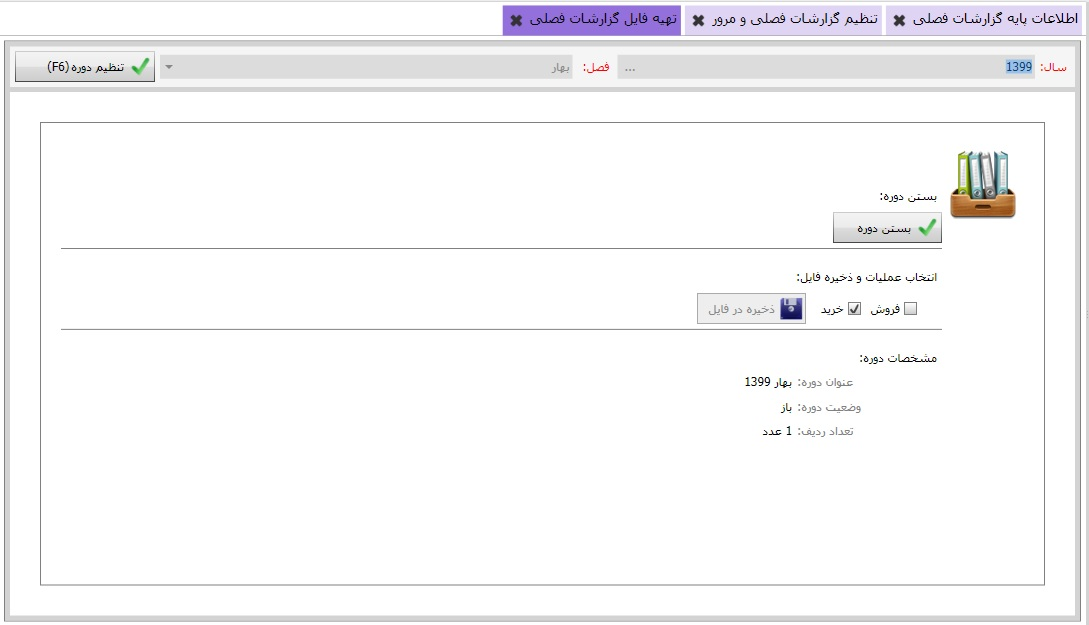
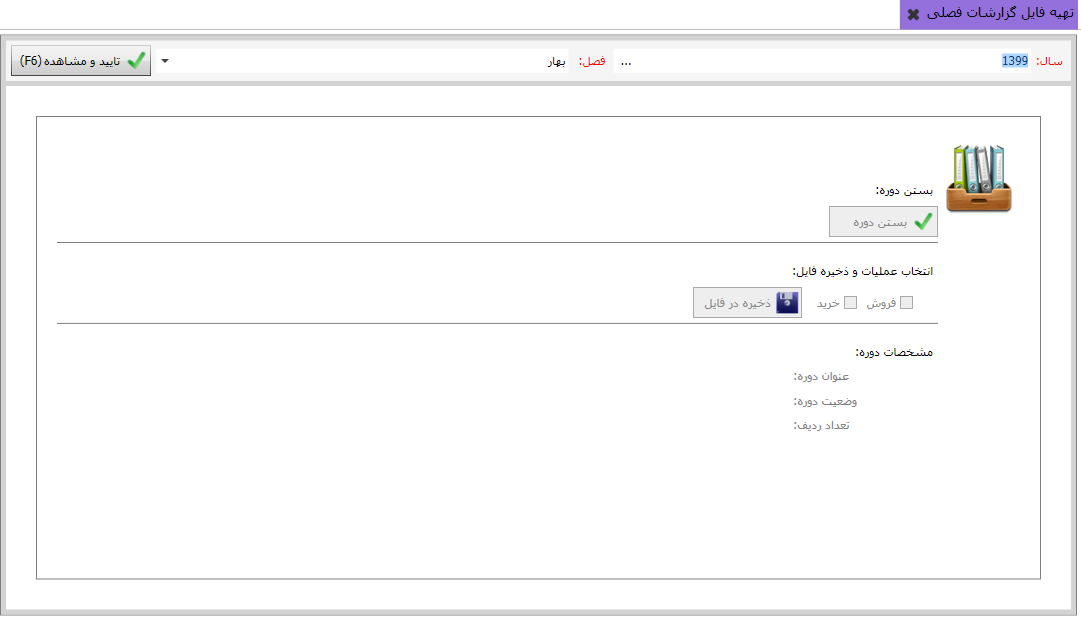
معاملات فصلی

Changed region(s): [[0.0, 0.0, 1.0, 1.0], [0.6716, 0.5832, 0.7937, 0.706]]

diff --git a/Help/fa-IR/_06_خرید و فروش/_21_تهیه فایل گزارشات فصلی/Index.html b/Help/fa-IR/_06_خرید و فروش/_21_تهیه فایل گزارشات فصلی/Index.html
@@ -12,8 +12,16 @@
 		<h1> تهیه ی فایل گزارشات فصلی </h1>
 	</div>
 	<p>
-		 بعد از تکمیل بخش اطلاعات پایه گزارشات فصلی و تنظیم گزارشات فصلی نوبت به تهیه ی فایل گزارشات فصلی 
-		 می رسد
+		بعد از تکمیل بخش اطلاعات پایه گزارشات فصلی و تنظیم گزارشات فصلی نوبت به
+		تهیه ی فایل گزارشات می رسد ، تصویر زیر را مشاهده بفرمایید:
+	</p>
+	<img class="FitPic" src="l1.jpg" />
+	<p>
+		در تصویر بالا ابتدا در سربرگ صفحه، سال و فصل مورد نظر خود راانتخاب کنید، سپس با 
+		استفاده از کلید بستن دوره، دوره را ببندید، در نهایت با کلیک بر روی کلید ذخیره در فایل، 
+		فایل مورد نظرتان را در مسیر دلخواه ذخیره کنید.
+		
+
 
 
 
@@ -34,7 +42,8 @@
 
 
 
-</p>
+
+	</p>
 
 
 

diff --git a/Help/fa-IR/_06_خرید و فروش/_20_تنظیم گزارشات فصلی و مرور/Index.html b/Help/fa-IR/_06_خرید و فروش/_20_تنظیم گزارشات فصلی و مرور/Index.html
@@ -8,18 +8,14 @@
 
 <body>
 	<div>
-		<img class="Icon" src="i1png" />
-		<h1> اطلاعات پایه گزارشات فصلی </h1>
+		<img class="Icon" src="i1.png" />
+		<h1> تنظیم گزارشات فصلی و مرور </h1>
 	</div>
 	<p>
-
-
-
-
-
-
-		
+		در این بخش می توانید گزارشات فصلی را تنظیم و مرور کنید.
+	
 	</p>
+	<img class="FitPic" src="l1.jpg" />
 	
 
 
